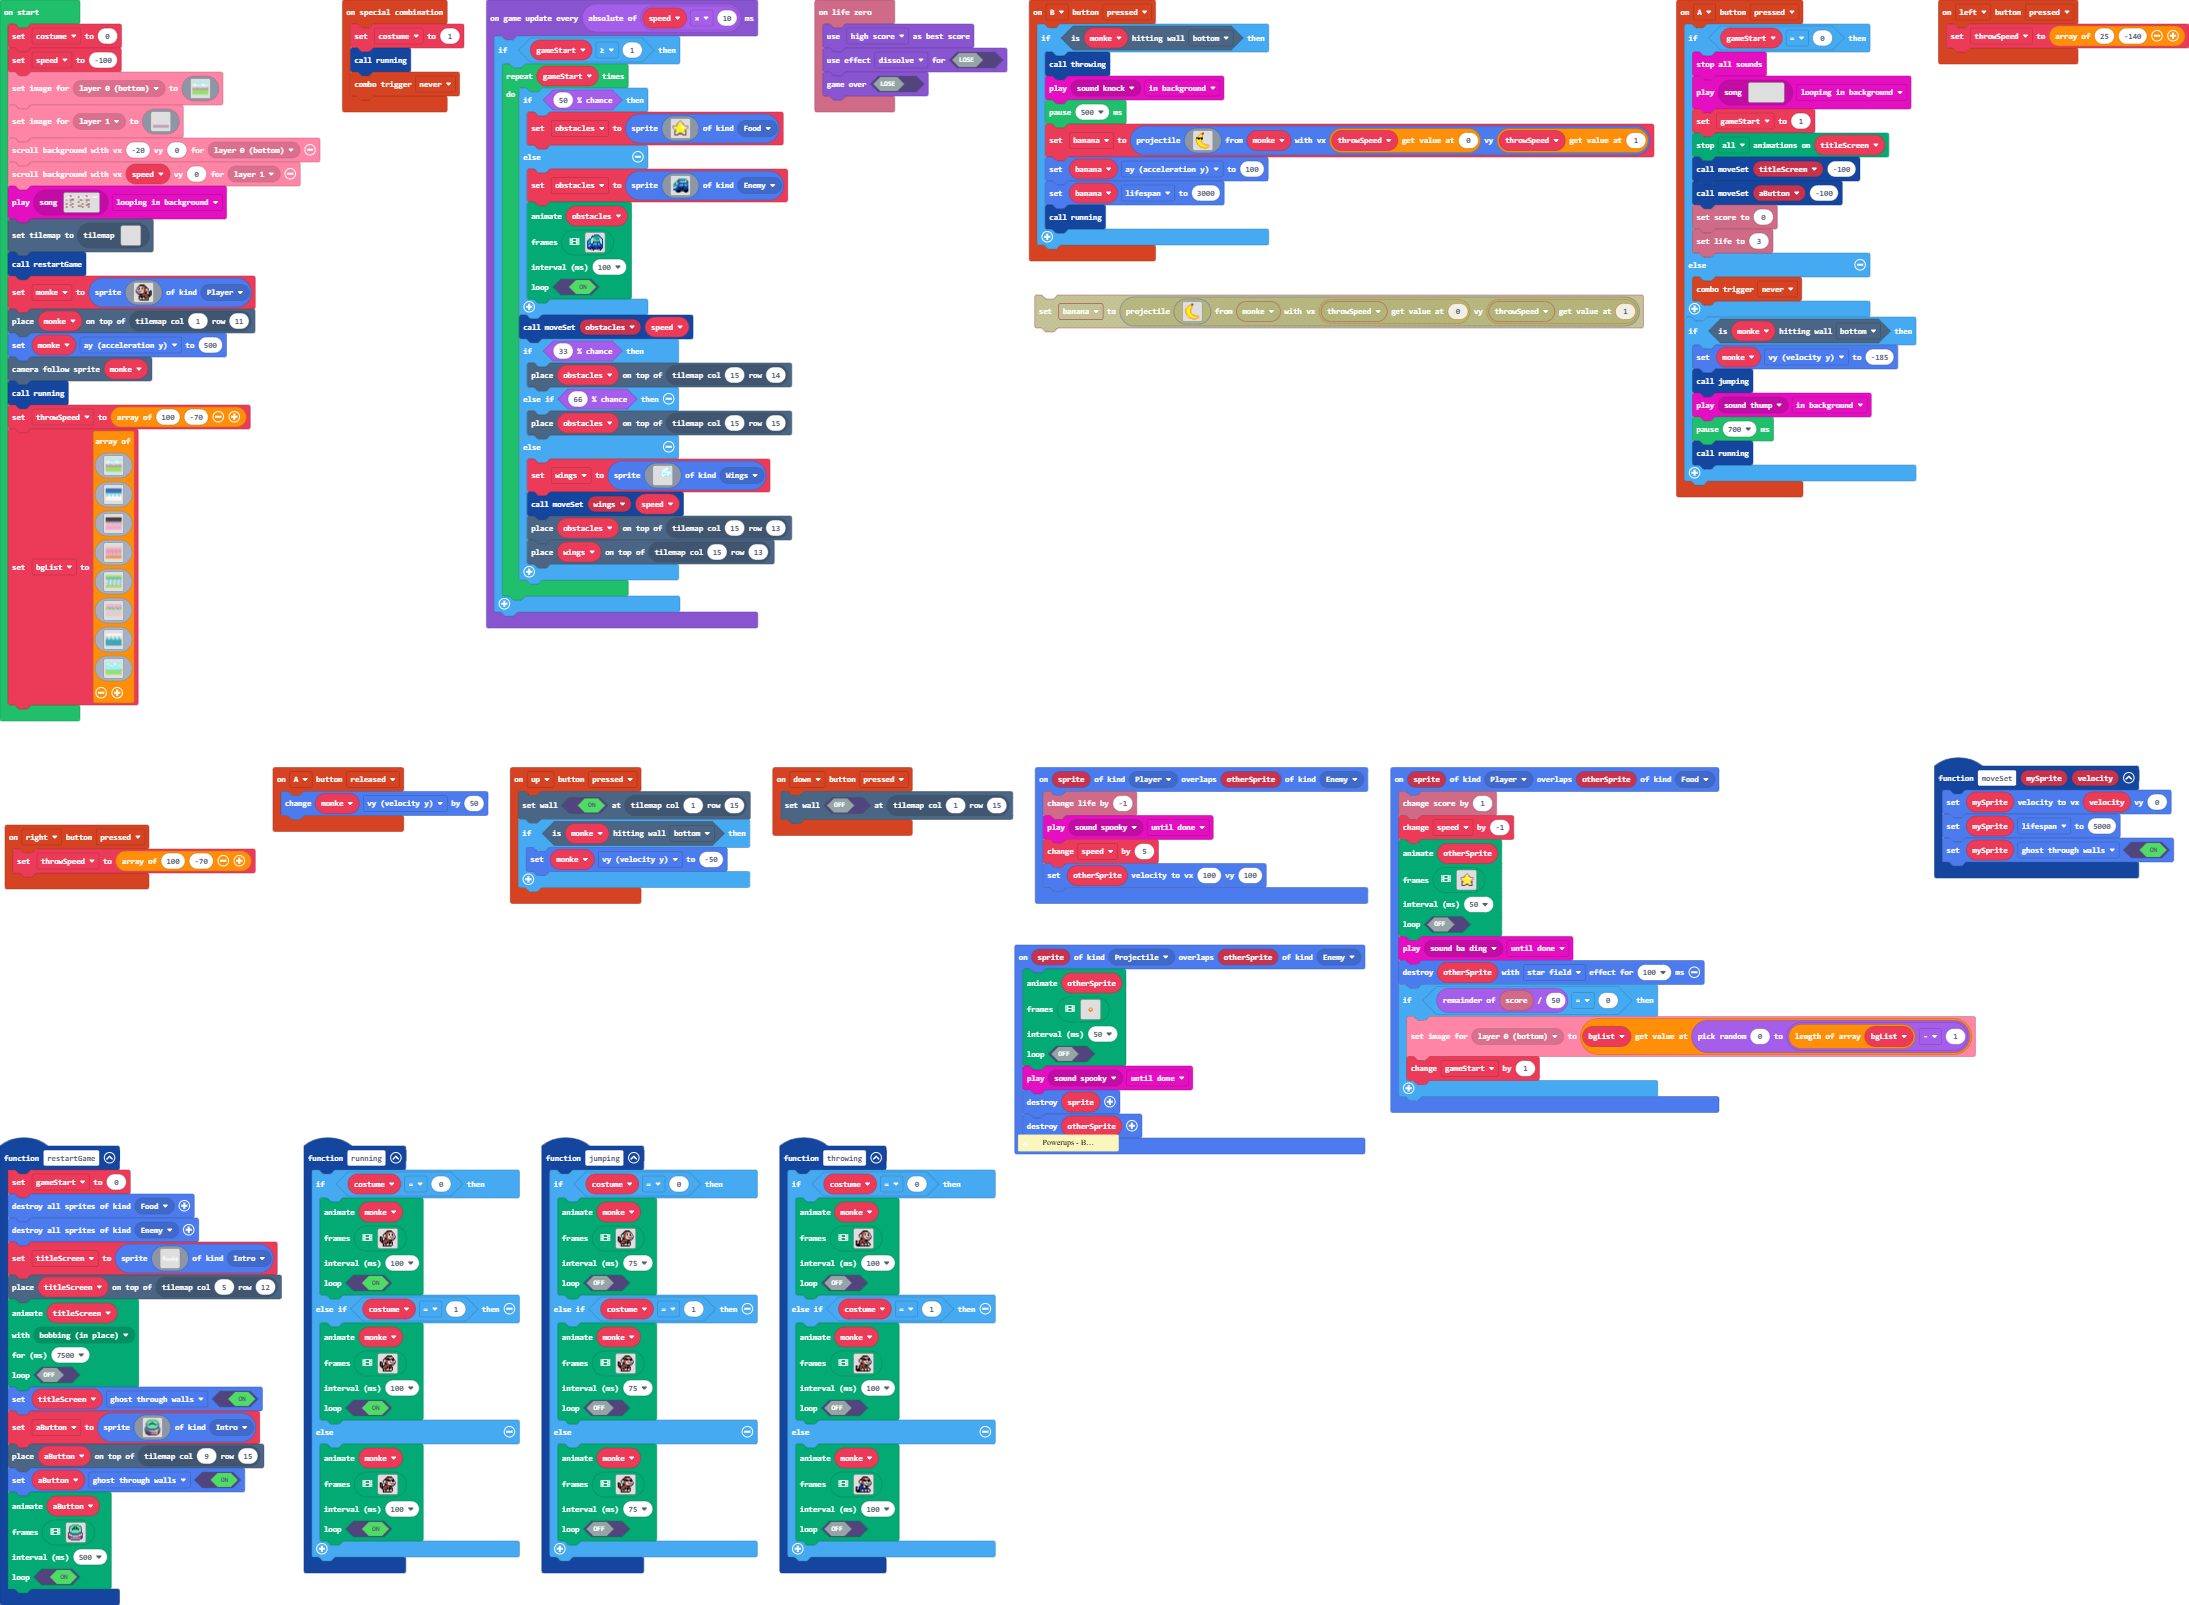
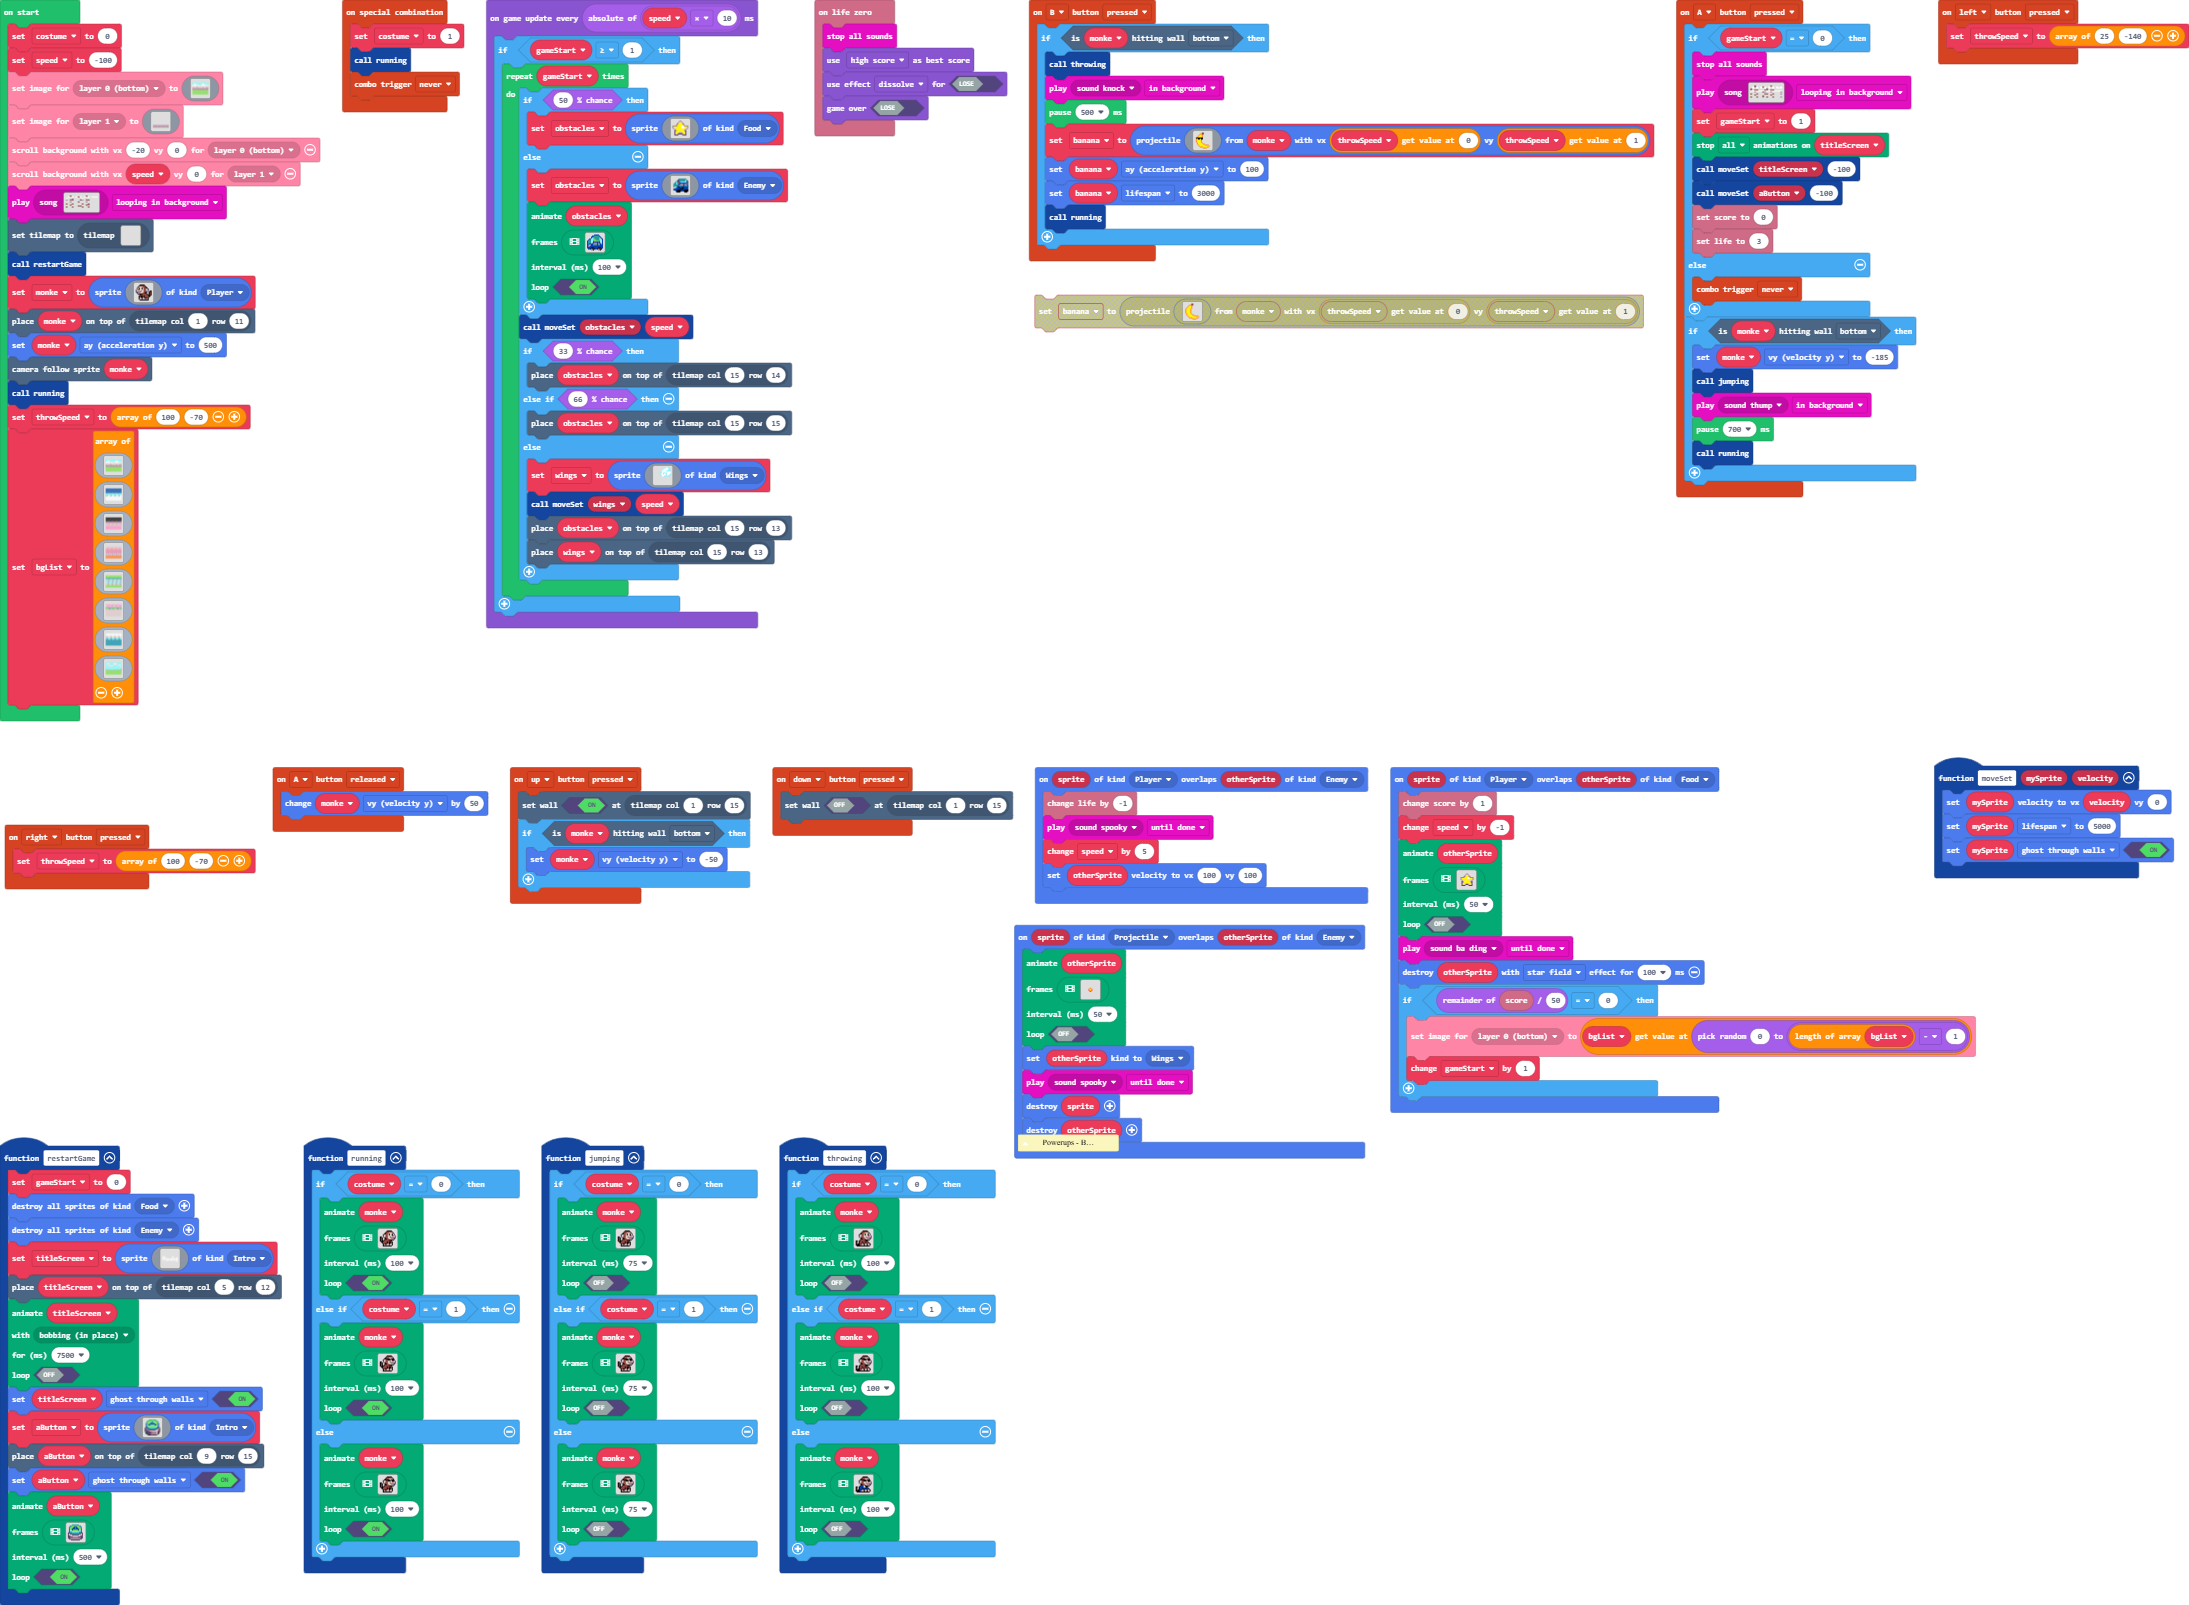
music

Changed region(s): [[0.466, 0.5607, 0.6213, 0.7165], [0.3728, 0.0, 0.466, 0.0935]]

diff --git a/images.g.ts b/images.g.ts
@@ -37,6 +37,8 @@ namespace myImages {
         switch(helpers.stringTrim(name)) {
             case "{CzYW!QfvUkdd!ro`L3j":
[1 lines of base64/hex data omitted]
+            case "song1":
[1 lines of base64/hex data omitted]
         }
         return null;
     })

diff --git a/main.ts b/main.ts
@@ -573,7 +573,7 @@ controller.B.onEvent(ControllerButtonEvent.Pressed, function () {
 controller.A.onEvent(ControllerButtonEvent.Pressed, function () {
     if (gameStart == 0) {
         music.stopAllSounds()
-        music.play(music.createSong(hex`00780004080200`), music.PlaybackMode.LoopingInBackground)
+        music.play(music.createSong(assets.song`in game`), music.PlaybackMode.LoopingInBackground)
         gameStart = 1
         animation.stopAnimation(animation.AnimationTypes.All, titleScreen)
         moveSet(titleScreen, -100)
@@ -1080,6 +1080,7 @@ controller.down.onEvent(ControllerButtonEvent.Pressed, function () {
     tiles.setWallAt(tiles.getTileLocation(1, 15), false)
 })
 info.onLifeZero(function () {
+    music.stopAllSounds()
     game.setGameOverScoringType(game.ScoringType.HighScore)
     game.setGameOverEffect(false, effects.dissolve)
     game.gameOver(false)
@@ -1555,6 +1556,7 @@ sprites.onOverlap(SpriteKind.Projectile, SpriteKind.Enemy, function (sprite, oth
     50,
     false
     )
+    otherSprite.setKind(SpriteKind.Wings)
     music.play(music.melodyPlayable(music.spooky), music.PlaybackMode.UntilDone)
     sprites.destroy(sprite)
     sprites.destroy(otherSprite)
